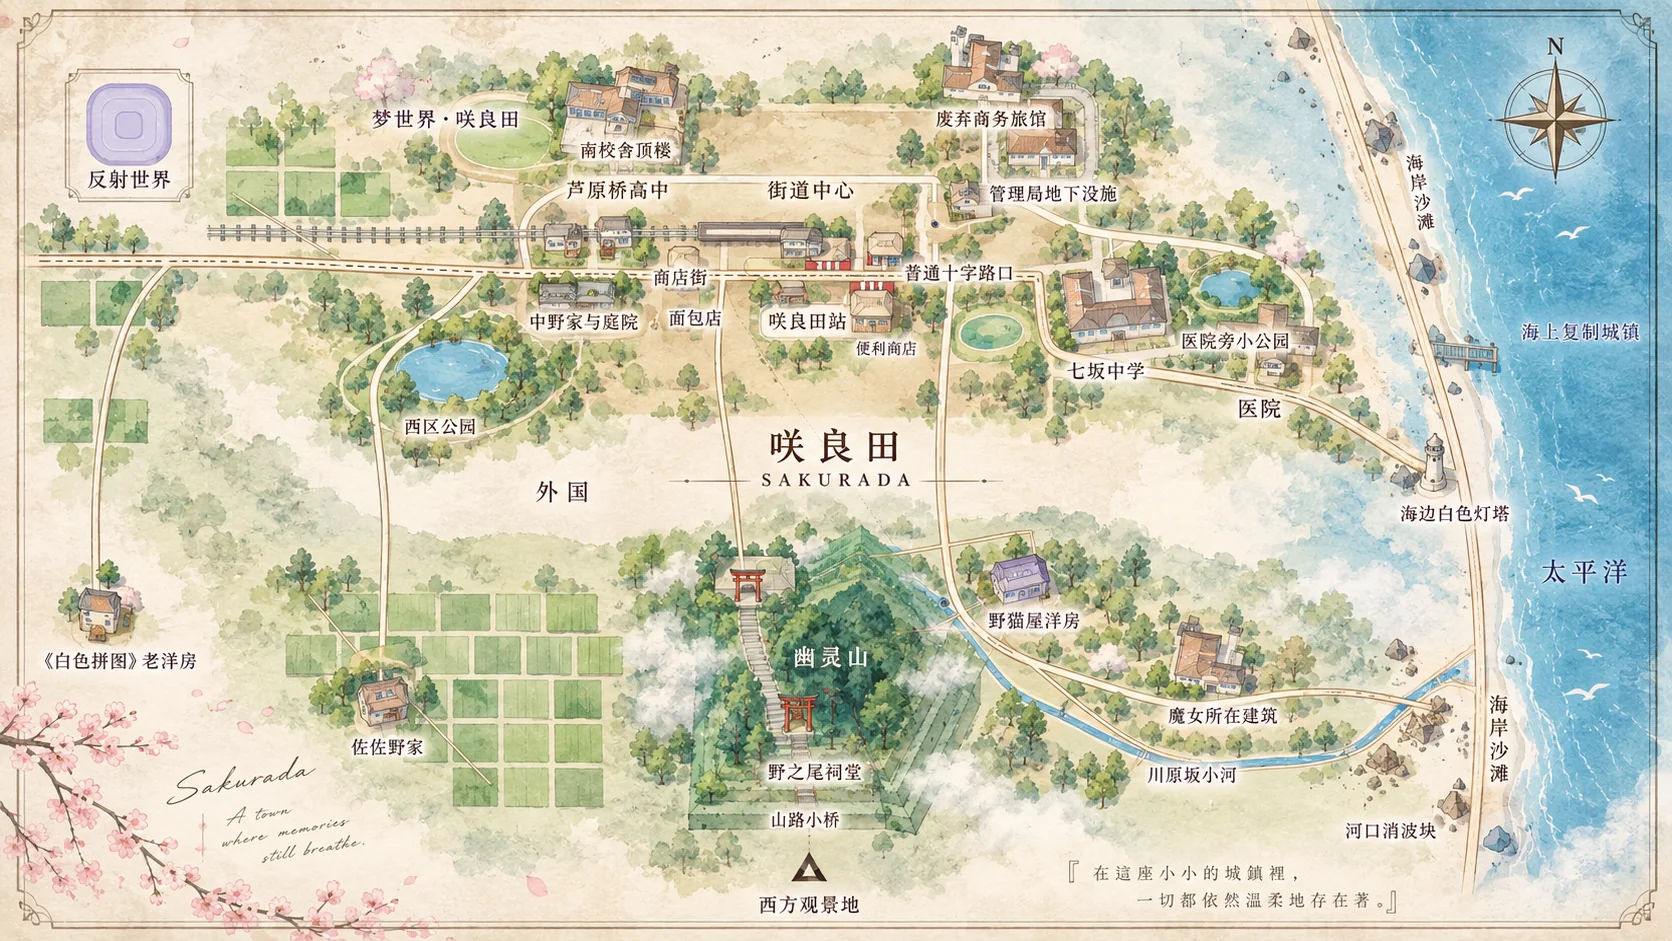
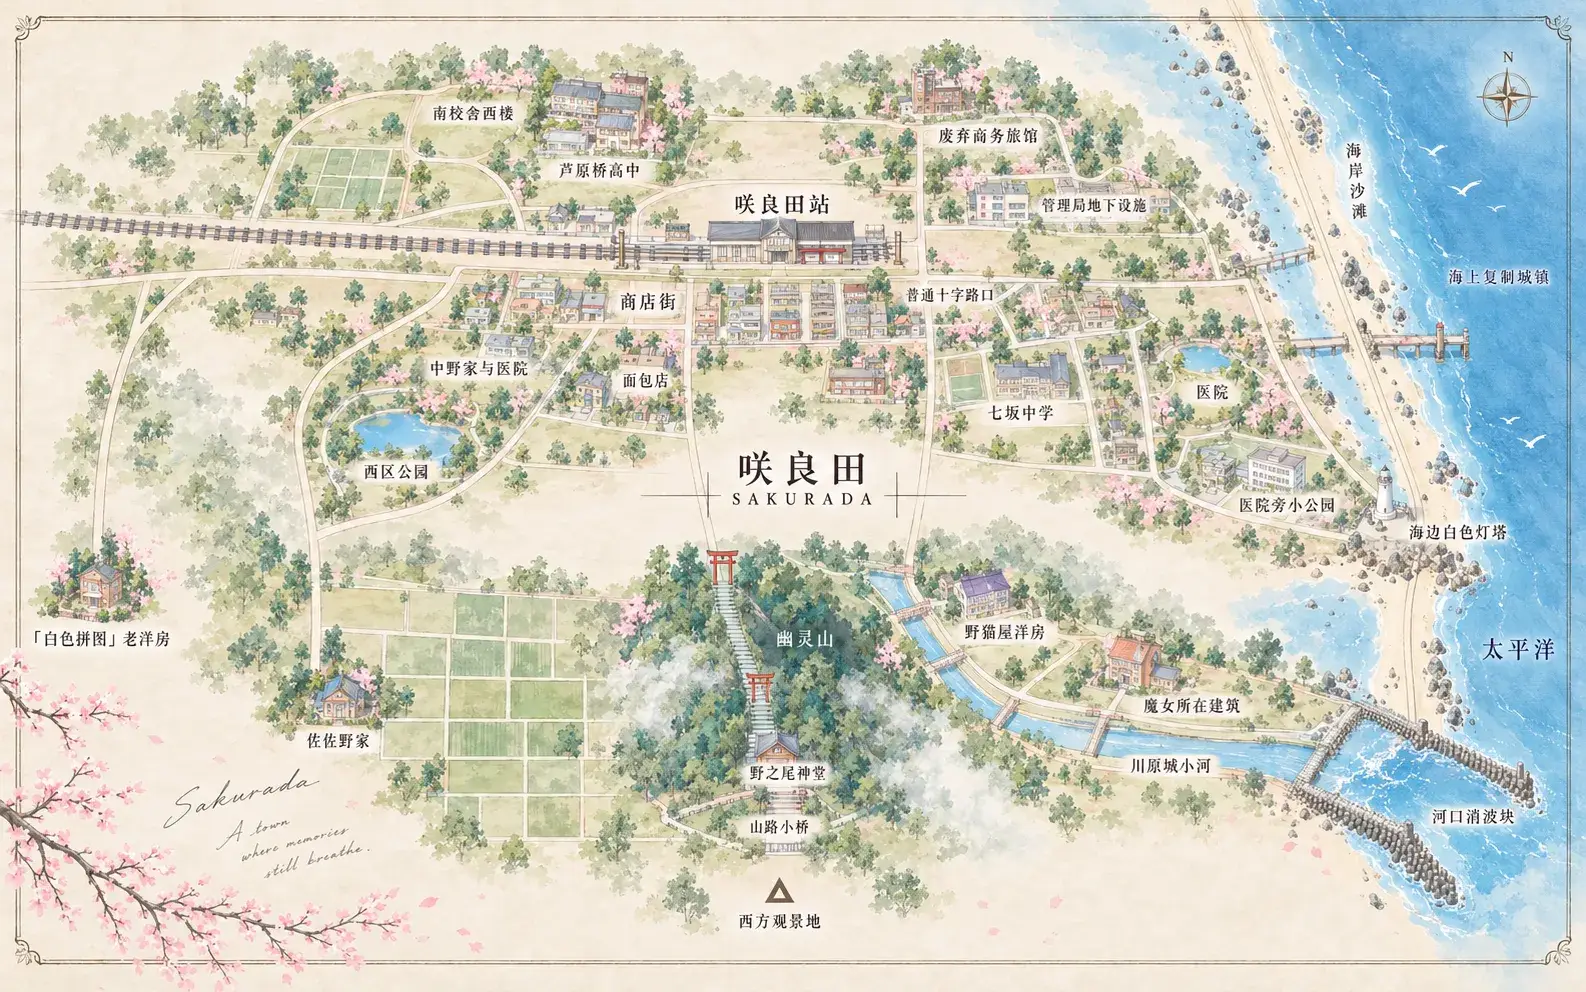
perf: slim PWA precache to js/css only

diff --git a/vite.config.ts b/vite.config.ts
@@ -82,11 +82,11 @@ export default defineConfig(({ command, isSsrBuild }) => ({
       injectRegister: 'inline',
       registerType: 'autoUpdate',
       workbox: {
-        globPatterns: ['**/*.{js,css,ico,svg}'],
+        globPatterns: ['**/*.{js,css}'],
         // https://github.com/vite-pwa/vite-plugin-pwa/issues/120
         navigateFallback: null,
       },
-      includeAssets: ['favicon.ico', 'apple-touch-icon.png'],
+      includeManifestIcons: false,
       manifest: {
         name: 'llyのblog',
         short_name: 'llyのblog',

diff --git a/posts/sakurada-reset-map.md b/posts/sakurada-reset-map.md
@@ -7,9 +7,9 @@ category: web
 
 生成地图在我看来其实是一件非常 cool 的事情，从模拟经营类游戏的玩家，到铁道迷，再到 oc 世界观创作，谁不想把自己的大作美美的展示出来呢！
 
-![GPT-Image-2 一次直出：只有一些小错误](./sakurada-reset-map/sakurada-reset-map-01-gpt-image-2.webp)
+![GPT-Image-2 生成](./sakurada-reset-map/sakurada-reset-map-01-gpt-image-2.webp)
 
-*GPT-Image-2 一次直出：只有一些小错误*
+*GPT-Image-2 生成*
 
 <!-- more -->
 
